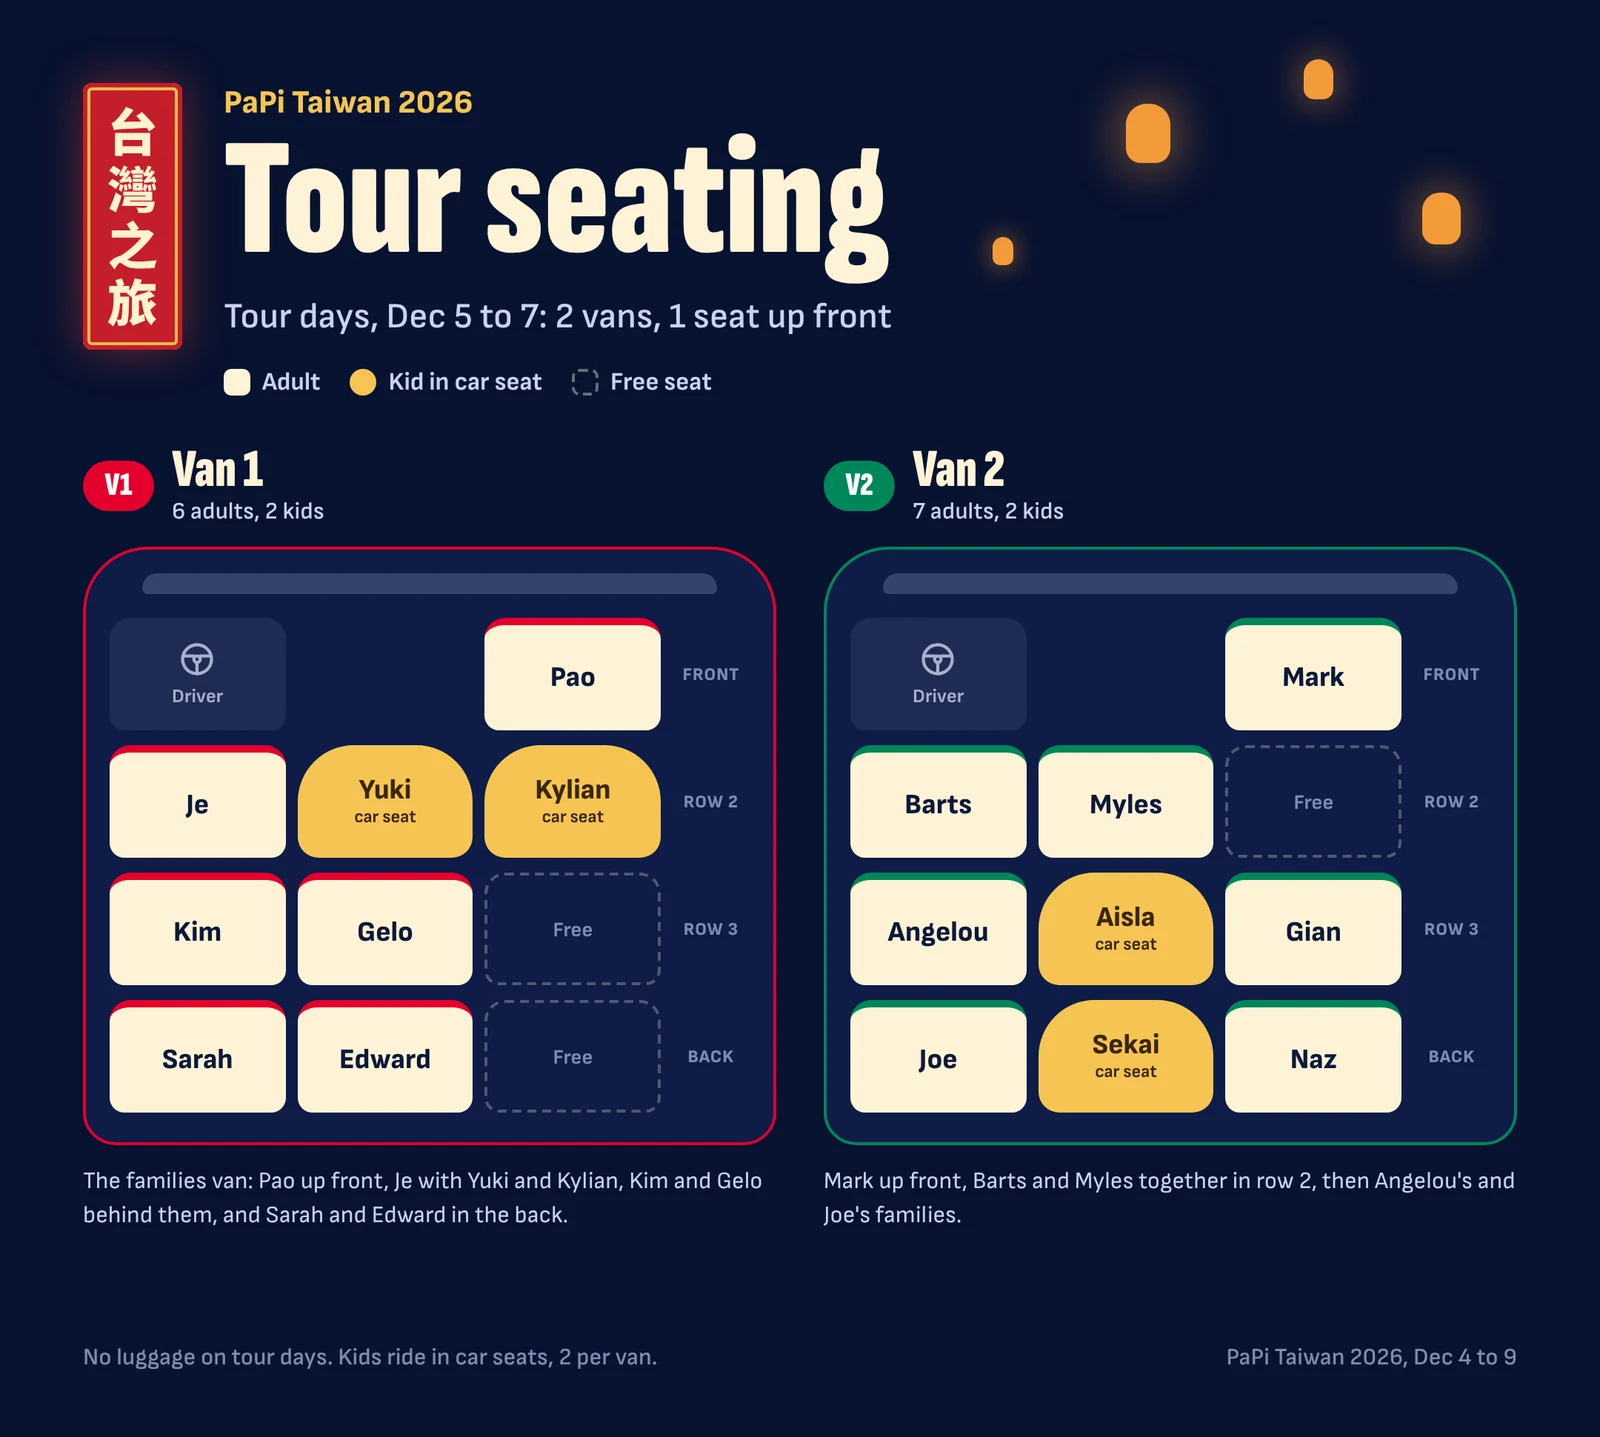
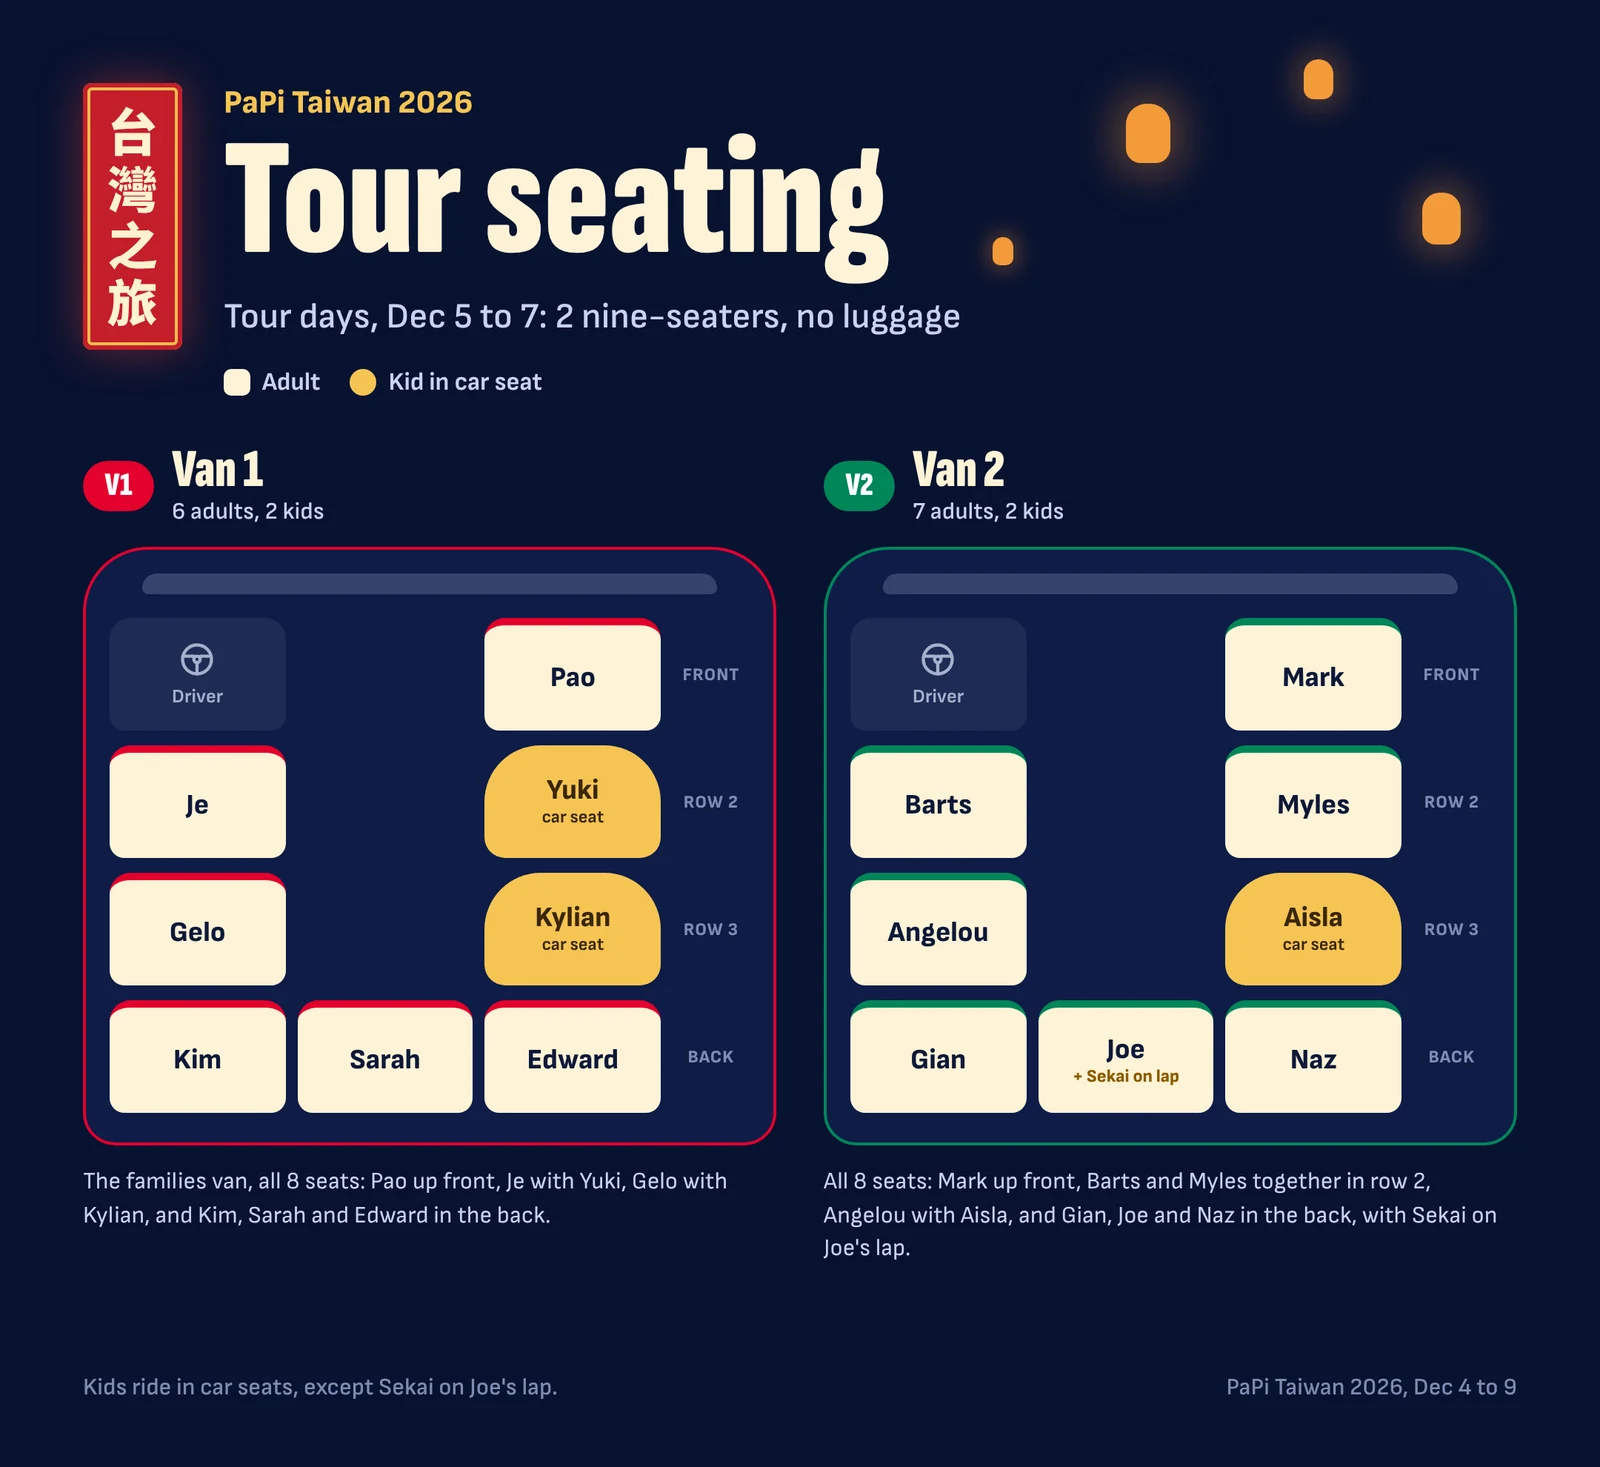
Tour seating for 9-seaters, with Sekai on Joe's lap in Van 2
- Van 1: Pao up front; Je and Yuki; Gelo and Kylian; Kim, Sarah, Edward
- Van 2: Mark up front; Barts and Myles together in row 2; Angelou and
  Aisla; Gian, Joe (Sekai on lap) and Naz in the back

Claude-Session: https://claude.ai/code/session_01KB1jmhfCUsJpm49JGQvRH2

diff --git a/assets/data.js b/assets/data.js
@@ -20,11 +20,11 @@ window.TRIP = {
     alt: "Van seating chart, airport to hotel, in 3 nine-seaters: 1 seat up front, then rows of 2, 2 and 3. Van 1: Pao in front; Je and Yuki; Gelo and Kylian; Kim, Sarah and Edward in the back. Van 2: Gian in front; Angelou and Aisla; bags in row 3; Joe, Sekai and Naz in the back. Van 3: Mark in front; Barts and Myles together in row 2; bags behind."
   },
 
-  // Van seating chart for the tour days (Dec 5 to 7): 2 vans, 1 seat up front, no luggage
+  // Van seating chart for the tour days (Dec 5 to 7): 2 nine-seaters (1 up front, then 2, 2 and 3), no luggage
   seatingTour: {
-    src: "assets/van-seating-tours.webp", w: 1600, h: 1437, title: "Tour seating",
+    src: "assets/van-seating-tours.webp", w: 1600, h: 1467, title: "Tour seating",
     caption: "Who rides where on tour days. Tap to see it bigger.",
-    alt: "Tour seating chart, 2 vans with one seat up front. Van 1: Pao in front; Je, Yuki and Kylian in row 2; Kim and Gelo in row 3; Sarah and Edward in the back. Van 2: Mark in front; Barts and Myles together in row 2; Angelou, Aisla and Gian in row 3; Joe, Sekai and Naz in the back."
+    alt: "Tour seating chart, 2 nine-seaters: 1 seat up front, then rows of 2, 2 and 3. Van 1: Pao in front; Je and Yuki; Gelo and Kylian; Kim, Sarah and Edward in the back. Van 2: Mark in front; Barts and Myles together in row 2; Angelou and Aisla in row 3; Gian, Joe and Naz in the back, with Sekai on Joe's lap."
   },
 
   // Live countdown on the cover. Update "to" and "note" once the flight is booked (Taipei time, +08:00).

diff --git a/sw.js b/sw.js
@@ -1,7 +1,7 @@
 /* PaPi Taiwan 2026 — offline support.
    The site keeps working with weak signal: pages come from the network first, then from this cache.
    Bump VERSION whenever site files change. */
-const VERSION = 'papi-2026-v17';
+const VERSION = 'papi-2026-v18';
 const PHOTOS = 'papi-photos-v1';
 const CORE = [
   './',
